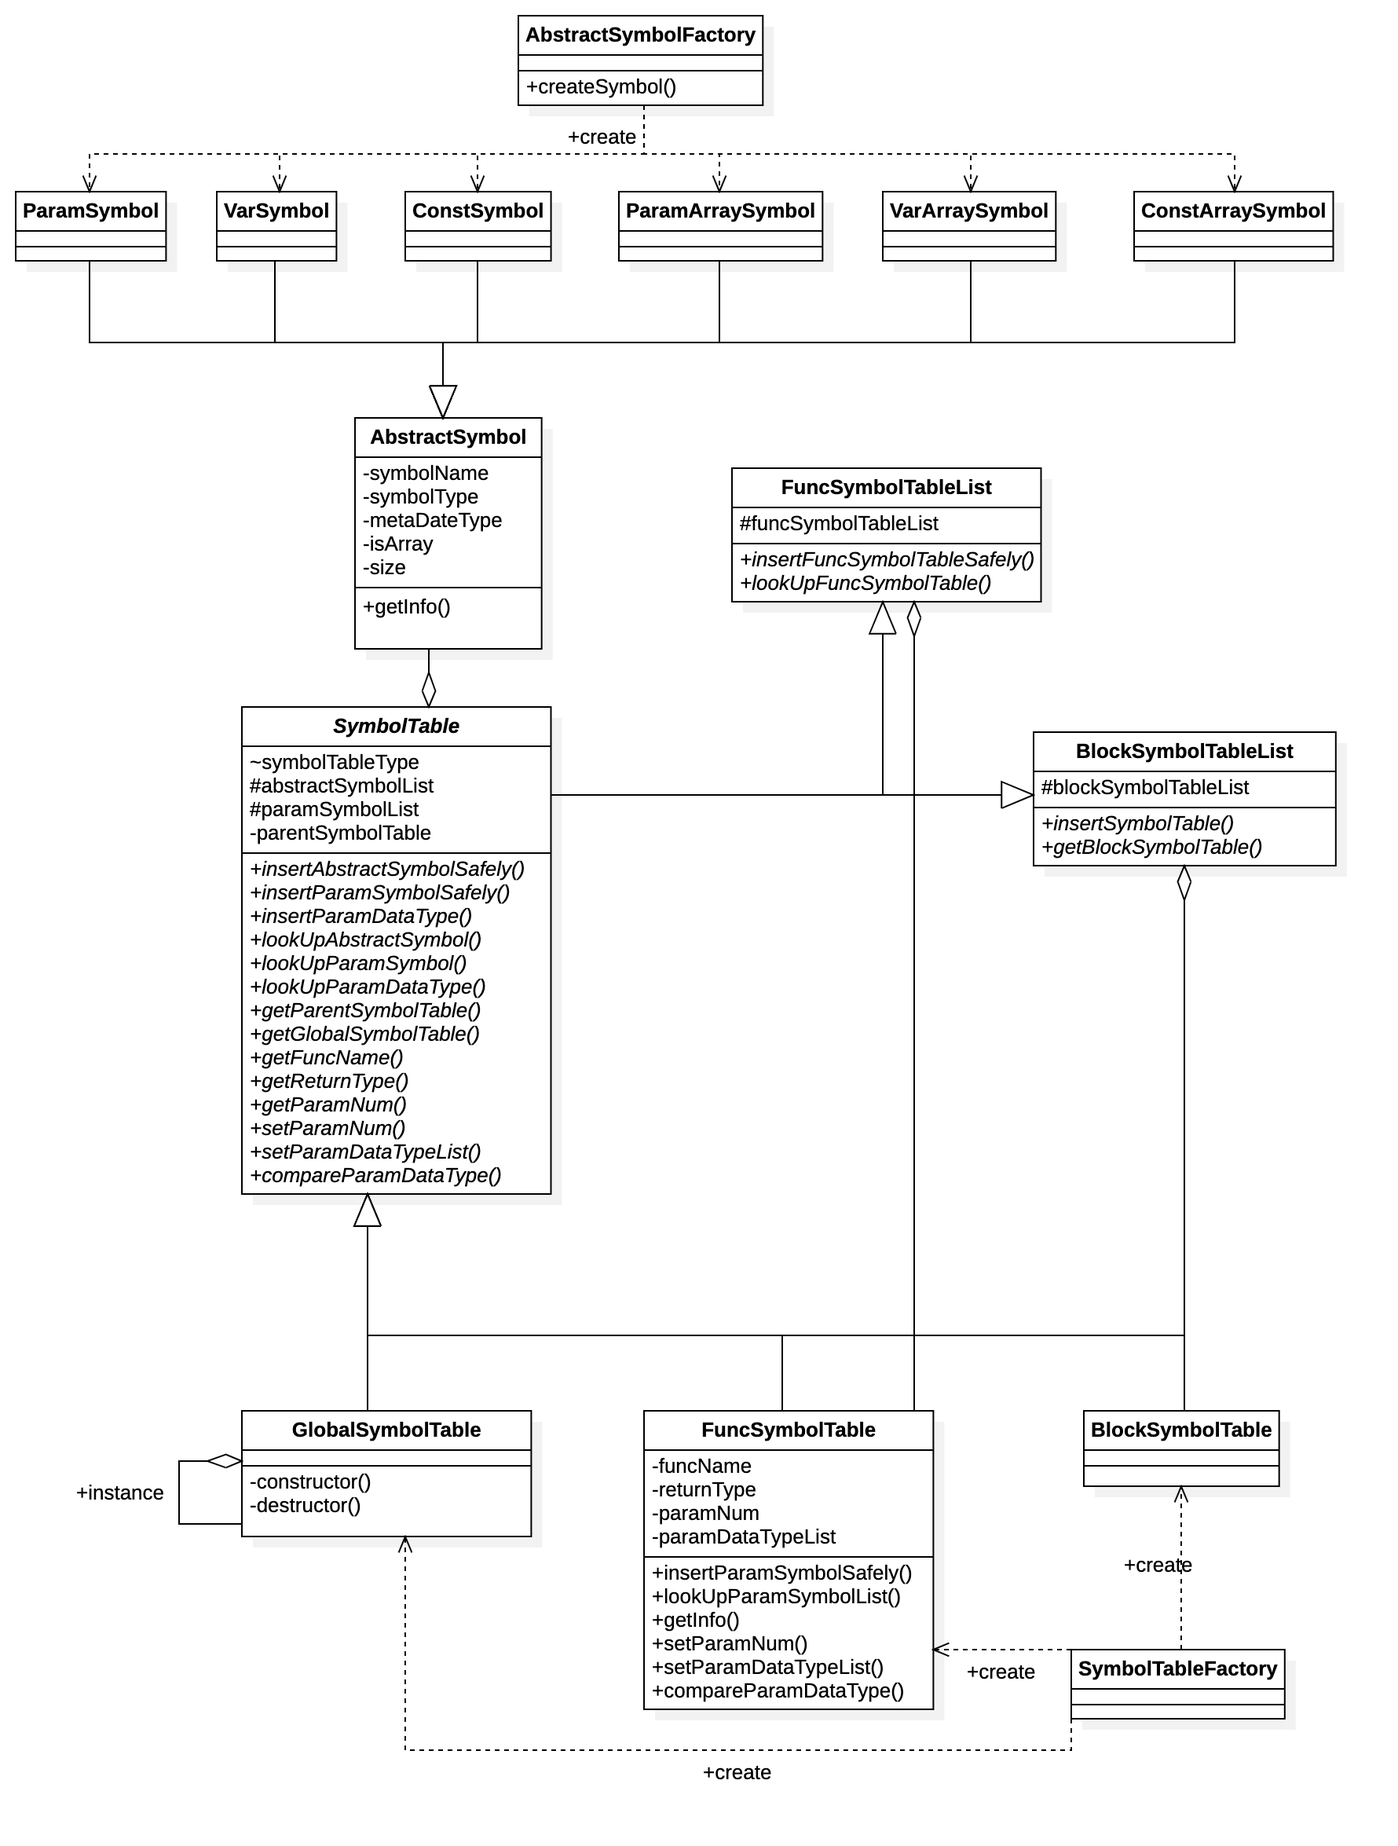
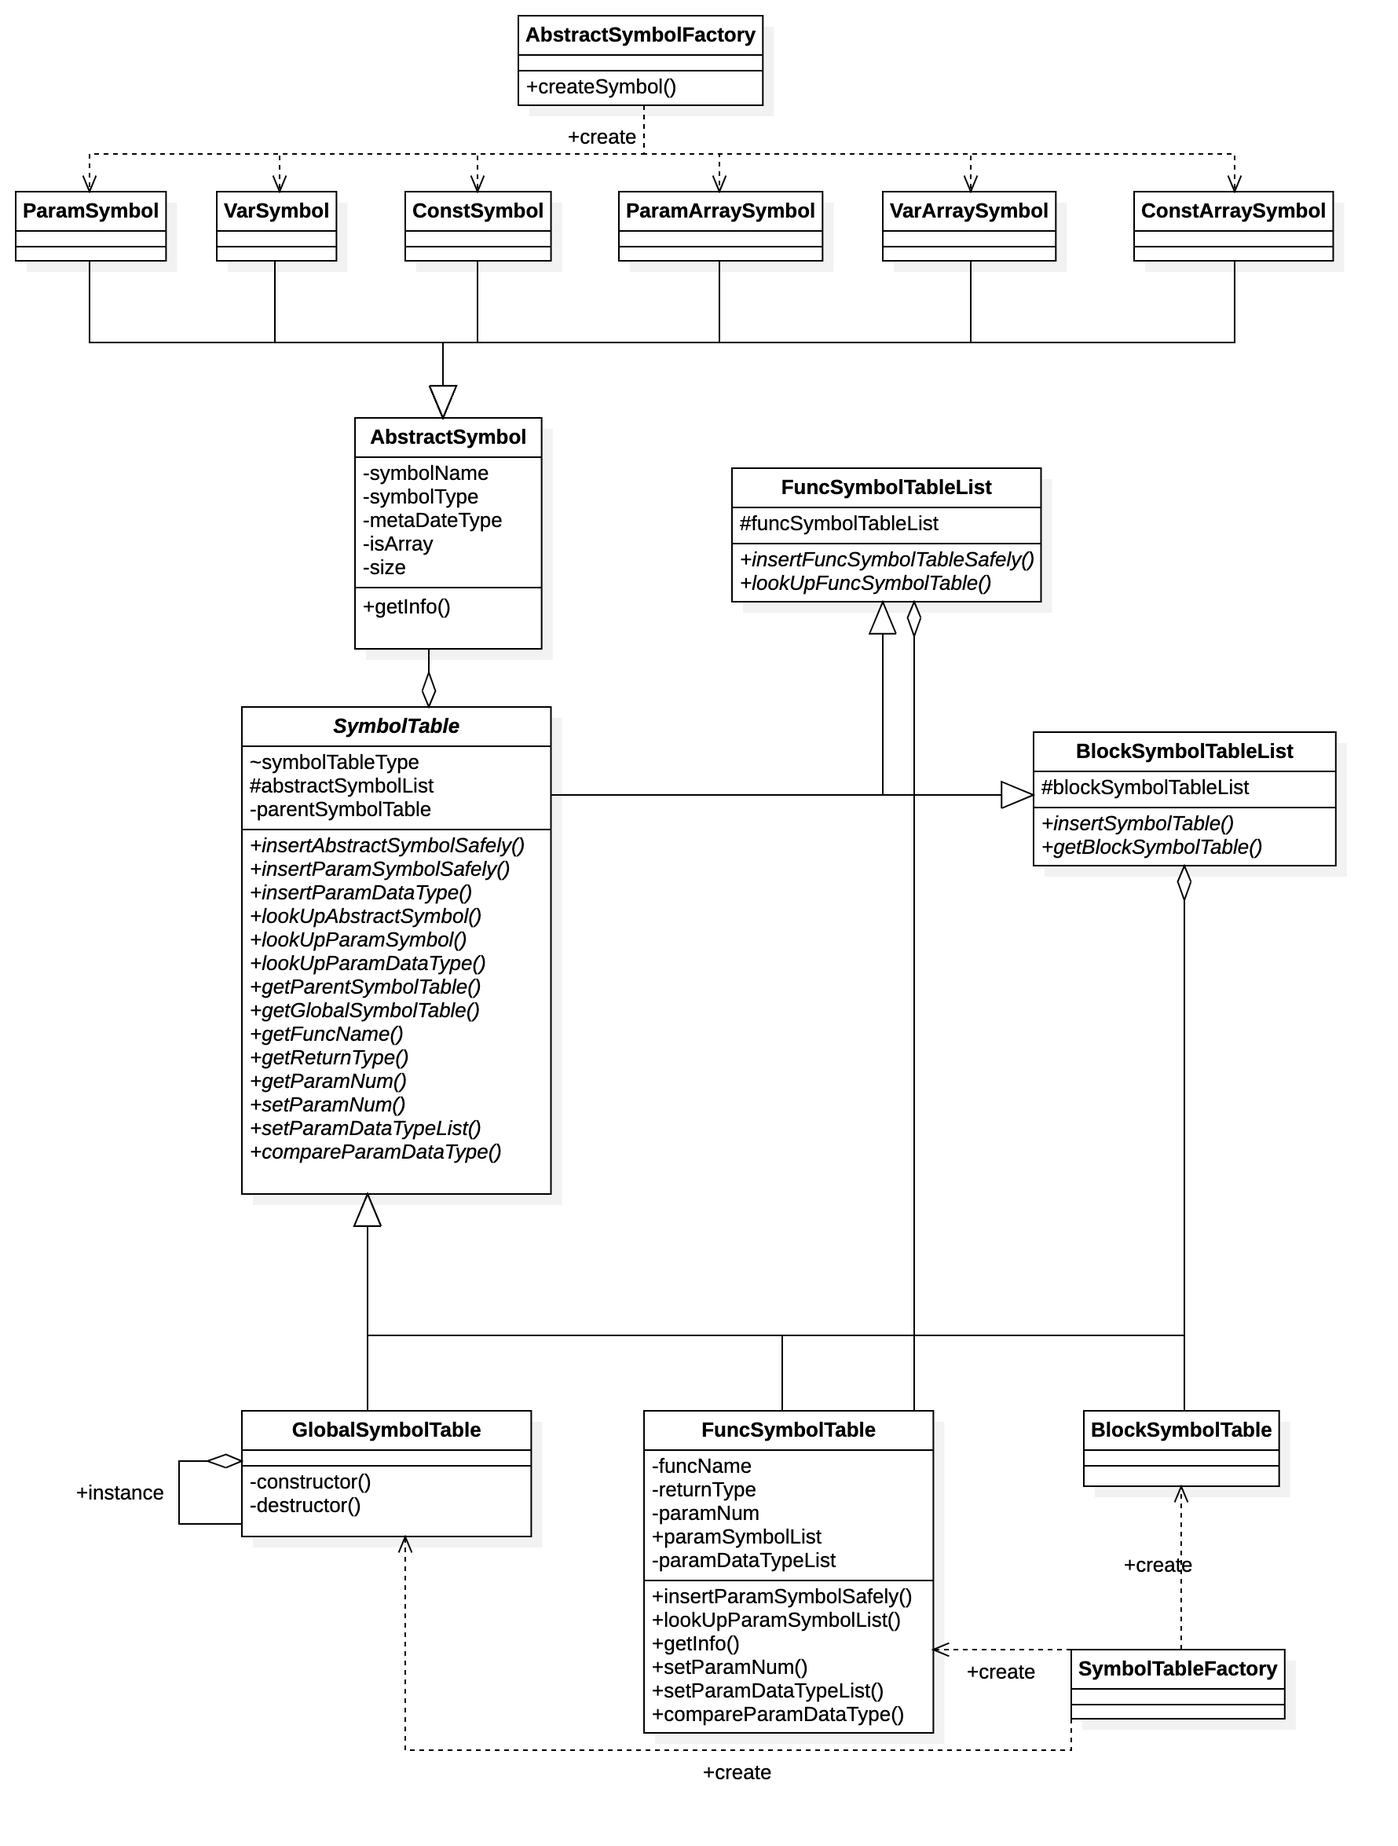
2 function override missing

Changed region(s): [[0.1854, 0.4349, 0.3708, 0.6523], [0.4635, 0.8077, 0.6489, 0.9319]]

diff --git a/src/symbolTable.cpp b/src/symbolTable.cpp
@@ -169,13 +169,13 @@ BlockSymbolTableList::~BlockSymbolTableList() {}
 
 SymbolTable *BlockSymbolTableList::insertBlockSymbolTable() {
     SymbolTable *insertSymbolTable = new BlockSymbolTable();
-    blockSymbolTableList.push_back(insertSymbolTable);
+    blockSymbolTableList.emplace_back(insertSymbolTable);
     return insertSymbolTable;
 }
 
 SymbolTable *BlockSymbolTableList::insertBlockSymbolTable(SymbolTable *inParentSymbolTable) {
     SymbolTable *insertSymbolTable = new BlockSymbolTable(inParentSymbolTable);
-    blockSymbolTableList.push_back(insertSymbolTable);
+    blockSymbolTableList.emplace_back(insertSymbolTable);
     return insertSymbolTable;
 }
 
@@ -226,10 +226,19 @@ AbstractSymbol *SymbolTable::lookUpAbstractSymbol(string inSymbolName) const {
     if (searchSymbol != abstractSymbolList.end()) {
         return searchSymbol->second;
     }
+    return nullptr;
+}
+
+
+AbstractSymbol *SymbolTable::lookUpAbstractSymbolGlobal(string inSymbolName) const {
+    auto searchSymbol = abstractSymbolList.find(inSymbolName);
+    if (searchSymbol != abstractSymbolList.end()) {
+        return searchSymbol->second;
+    }
     if (symbolTableType == TableType::FUNC) {
-        searchSymbol = paramSymbolList.find(inSymbolName);
-        if (searchSymbol != paramSymbolList.end()) {
-            return searchSymbol->second;
+        AbstractSymbol *paramSymbolRes = lookUpParamSymbol(inSymbolName);
+        if (paramSymbolRes) {
+            return paramSymbolRes;
         }
         return parentSymbolTable->lookUpAbstractSymbol(inSymbolName);
     }
@@ -297,8 +306,28 @@ AbstractSymbol *FuncSymbolTable::insertParamSymbolSafely(string inSymbolName, Sy
 }
 
 bool FuncSymbolTable::insertParamType(SymbolType inSymbolType, MetaDataType inMetaDataType, bool inIsArray, size_t inSize) {
-    paramDataTypeList.push_back(tuple<SymbolType, MetaDataType, bool, size_t>(inSymbolType, inMetaDataType, inIsArray, inSize));
+    paramDataTypeList.emplace_back(inSymbolType, inMetaDataType, inIsArray, inSize);
     return true;
+}
+
+AbstractSymbol *FuncSymbolTable::lookUpParamSymbol(string inSymbolNmae) const {
+    auto it = paramSymbolList.find(inSymbolNmae);
+    if (it != paramSymbolList.end()) {
+        return it->second;
+    }
+    else {
+        return nullptr;
+    }
+}
+
+tuple <SymbolType, MetaDataType, bool, size_t> FuncSymbolTable::lookUpParamDataType(string inSymbolName) const {
+    AbstractSymbol *searchSymbol = lookUpParamSymbol(inSymbolName);
+    if (searchSymbol) {
+        return tuple <SymbolType, MetaDataType, bool, size_t>(searchSymbol->getSymbolType(), searchSymbol->getMetaDataType(), searchSymbol->getIsArray(), searchSymbol->getSize());
+    }
+    else {
+        return tuple <SymbolType, MetaDataType, bool, size_t> ();
+    }
 }
 
 string FuncSymbolTable::getFuncName() const {
@@ -329,8 +358,8 @@ int FuncSymbolTable::setParamNum() {
 }
 
 bool FuncSymbolTable::setParamDataTypeList() {
-    for (auto i = SymbolTable::paramSymbolList.begin(); i != SymbolTable::paramSymbolList.end(); ++i) {
-        paramDataTypeList.push_back(tuple<SymbolType, MetaDataType, bool, size_t>(i->second->getSymbolType(), i->second->getMetaDataType(), i->second->getIsArray(), i->second->getSize()));
+    for (auto i = paramSymbolList.begin(); i != paramSymbolList.end(); ++i) {
+        paramDataTypeList.emplace_back(i->second->getSymbolType(), i->second->getMetaDataType(), i->second->getIsArray(), i->second->getSize());
     }
     return true;
 }

diff --git a/src/symbolTable.h b/src/symbolTable.h
@@ -173,7 +173,6 @@ private:
 
 protected:
     unordered_map<string, AbstractSymbol *> abstractSymbolList;
-    unordered_map<string, AbstractSymbol *> paramSymbolList;
 
 public:
     SymbolTable();  // note: should promiss GlobalSymbolTable construct for once
@@ -187,6 +186,7 @@ public:
     virtual bool insertParamType(SymbolType inSymbolType, MetaDataType inMetaDataType, bool inIsArray, size_t inSize) { return false; };
 
     virtual AbstractSymbol *lookUpAbstractSymbol(string inSymbolName) const;
+    virtual AbstractSymbol *lookUpAbstractSymbolGlobal(string inSymbolName) const;
     virtual AbstractSymbol *lookUpParamSymbol(string inSymbolNmae) const { return nullptr; };
     virtual tuple <SymbolType, MetaDataType, bool, size_t> lookUpParamDataType(string inSymbolName) const { return tuple <SymbolType, MetaDataType, bool, size_t>(SymbolType::CONST, MetaDataType::VOID, false, 0); };
 
@@ -226,6 +226,7 @@ private:
     string funcName;
     MetaDataType returnType;
     int paramNum;
+    unordered_map<string, AbstractSymbol *> paramSymbolList;
     vector<tuple <SymbolType, MetaDataType, bool, size_t> > paramDataTypeList;
 
 protected:
@@ -237,6 +238,9 @@ public:
     ~FuncSymbolTable();
     AbstractSymbol *insertParamSymbolSafely(string inSymbolName, SymbolType inSymbolType, MetaDataType inMetaDataType, bool inIsArray, size_t inSize) override;
     bool insertParamType(SymbolType inSymbolType, MetaDataType inMetaDataType, bool inIsArray, size_t inSize) override;
+
+    AbstractSymbol *lookUpParamSymbol(string inSymbolNmae) const override;
+    tuple <SymbolType, MetaDataType, bool, size_t> lookUpParamDataType(string inSymbolName) const override;
 
     string getFuncName() const override;
     MetaDataType getReturnType() const override;

diff --git a/reports/PR002-CACT-11.md b/reports/PR002-CACT-11.md
@@ -101,13 +101,13 @@
 
 ##### 函数接口
 
-|类|函数名|参数|返回类型|说明|
+|函数名|类|参数|返回类型|说明|
 |:-:|:-:|:-:|:-:|:-:|
-|`AbstractSymbol`|`getSymbolName`|`void`|`string`|返回符号名称|
-|`AbstractSymbol`|`getSymbolType`|`void`|`SymbolType`|返回符号名称|
-|`AbstractSymbol`|`getMetaDataType`|`void`|`MetaDataType`|返回符号名称|
-|`AbstractSymbol`|`getIsArray`|`void`|`bool`|返回符号名称|
-|`AbstractSymbol`|`getSize`|`void`|`size_t`|返回符号名称|
+|`getSymbolName`|`AbstractSymbol`|`void`|`string`|返回符号名称|
+|`getSymbolType`|`AbstractSymbol`|`void`|`SymbolType`|返回符号名称|
+|`getMetaDataType`|`AbstractSymbol`|`void`|`MetaDataType`|返回符号名称|
+|`getIsArray`|`AbstractSymbol`|`void`|`bool`|返回符号名称|
+|`getSize`|`AbstractSymbol`|`void`|`size_t`|返回符号名称|
 |`ParamSymbol`|`ParamSymbol`|`string, SymbolType, MetaDataType, bool, size_t`|`void`|构造函数，直接设置符号信息|
 |`VarSymbol`|`VarSymbol`|同上|`void`|构造函数|
 |`ConstSymbol`|`ConstSymbol`|同上|`void`|构造函数|
@@ -115,6 +115,7 @@
 |`VarArraySymbol`|`VarArraySymbol`|同上|`void`|构造函数|
 |`ConstArraySymbol`|`ConstArraySymbol`|同上|`void`|构造函数|
 |`AbstractSymbol`|`AbstractSymbol`|同上|`void`|构造函数|
+|`createSymbol`|`SymbolFactory`|同上|`void`|工厂模式，推荐使用|
 
 用基类表述的函数在子类中都可以直接使用，面向父类时采用最下定义。
 
@@ -122,13 +123,50 @@
 
 ##### 函数接口
 
-|类|函数名|参数|参数类型|返回类型|说明|
+|函数名|类|参数|参数类型|返回类型|说明|
 |:-:|:-:|:-:|:-:|:-:|:-:|
-|`FuncSymbolTableList`|`insertFuncSymbolTableSafely`|`inFuncName, inReturnType`|`string, MetaDataType`|`SymbolTable *`|根据函数名和返回值新建一个函数符号表加入列表（查重），若成功返回加入的函数符号表指针|
-|`FuncSymbolTableList`|`insertFuncSymbolTableSafely`|`inFuncName, inReturnType, inParentSymbolTable`|`string, MetaDataType, SymbolTable *`|`SymbolTable *`|根据函数名和返回值新建一个函数符号表加入列表（查重），若成功返回加入的函数符号表指针|
-|`FuncSymbolTableList`|`lookUpFuncSymbolTable`|`inFuncName`|`string`|`SymbolTable *`|根据函数名和返回值新建一个函数符号表加入列表（查重），若成功返回加入的函数符号表指针|
-|`BlockSymbolTableList`|`insertBlockSymbolTable`|`inParentSymbolTable`|`SymbolTable *`|`SymbolTable *`|新建一个块结构符号表并加入列表，填入块符号表的父符号表，若成功返回新加入的符号表指针|
-|`BlockSymbolTableList`|`getBlockSymbolTable`|`index`|`int`|`SymbolTable *`|根据下标返回块符号表指针，若输入不合法则报错|
+|`insertFuncSymbolTableSafely`|`FuncSymbolTableList`|`inFuncName, inReturnType`|`string, MetaDataType`|`SymbolTable *`|根据函数名和返回值新建一个函数符号表加入列表（查重），若成功返回加入的函数符号表指针|
+|`insertFuncSymbolTableSafely`|`FuncSymbolTableList`|`inFuncName, inReturnType, inParentSymbolTable`|`string, MetaDataType, SymbolTable *`|`SymbolTable *`|根据函数名和返回值新建一个函数符号表加入列表（查重），若成功返回加入的函数符号表指针|
+|`lookUpFuncSymbolTable`|`FuncSymbolTableList`|`inFuncName`|`string`|`SymbolTable *`|根据函数名和返回值新建一个函数符号表加入列表（查重），若成功返回加入的函数符号表指针|
+|`insertBlockSymbolTable`|`BlockSymbolTableList`|`inParentSymbolTable`|`SymbolTable *`|`SymbolTable *`|新建一个块结构符号表并加入列表，填入块符号表的父符号表，若成功返回新加入的符号表指针|
+|`getBlockSymbolTable`|`BlockSymbolTableList`|`index`|`int`|`SymbolTable *`|根据下标返回块符号表指针，若输入不合法则报错|
+
+##### 实现细节
+
+**Insert操作**
+
+根据STL接口，`unordered_map`使用`emplace`插入元素而不采用`insert`，避免了临时变量的产生，有效利用了C++ 11的新特性：**`变参模版`**和**`完美转发`**，参数类型更加灵活，且不必进行显示类型变换。
+
+首先进行查重的操作运用C++模版的特性，方便不同形式的列表实现进行查重。
+
+```cpp
+template <class T>
+bool findDuplicateName(T list, string className, string name) {
+    auto searchSymbol = list.find(name);
+    if (searchSymbol != list.end()) {
+        ERROR_INSERT_DUPLICATED(className, name);
+        return true;
+    }
+    return false;
+}
+```
+
+若未发现重名，则进行插入操作，事先利用符号工厂创建所需类型的符号：
+
+```cpp
+SymbolTable *FuncSymbolTableList::insertFuncSymbolTableSafely(string inFuncName, MetaDataType inReturnType, SymbolTable *inParentSymbolTable) {
+    if (findDuplicateName(funcSymbolTableList, "FuncSymbolTableList", inFuncName)){
+        return nullptr;
+    }
+    SymbolTable *insertSymbolTable = new FuncSymbolTable(inFuncName, inReturnType, inParentSymbolTable);
+    funcSymbolTableList.emplace(inFuncName, insertSymbolTable);
+    return insertSymbolTable;
+}
+```
+
+**LookUp操作**
+
+对于unordered_map，查找操作时间复杂度极低，因为底层使用hash table实现，先求解hash值之后直接索引到目标即可。同样可以调用STL模版函数`find`，返回类型是迭代器，若指向列表尾部（在外部）则说明查找失败，否则返回对应位置的AbstractSymbol指针。
 
 #### 符号表
 
@@ -136,27 +174,39 @@
 
 使用基类`SymbolTable`定义的函数在子类中都可以直接调用，使用子类定义的函数为该子类特有，其余函数不允许调用。
 
-|类|函数名|参数|参数类型|返回类型|说明|
+|函数名|类|参数|参数类型|返回类型|说明|
 |:-:|:-:|:-:|:-:|:-:|:-:|
-|`SymbolTable`|`insertAbstractSymbolSafely`|`inSymbolName, inSymbolType, inMetaDataType,inIsArray, inSize`|`string, SymbolType, MetaDataType, bool, size_t`|`AbstractSymbol *`|利用所给参数带查重地插入指代符号列表，若成功返回指代符号指针|
-|`SymbolTable`|`lookUpAbstractSymbol`|`inSymbolName`|`string`|`AbstractSymbol *`|利用指代符号名称查找之，**注意会逐级向上查找，找到存在对应符号的最下嵌套作用域**|
-|`SymbolTable`|`getParentSymbolTable`|`void`|`void`|`SymbolTable *`|找到本符号表的父符号表|
-|`SymbolTable`|`getGlobalSymbolTable`|`void`|`SymbolTable *`|本意只是为了全局符号表单例模式提供，但理论而言确实可以被外部和子类访问|
-|`SymbolTable`|`setParameterSymbolTable`|`parentSymbolTable`|`SymbolTable *`|`bool`|为了弥补，若此前构造函数未能提供父符号表，则可调用此函数定义|
-|`SymbolTable`|`compareAbstractSymbolDataType`|`inSymbolName, inSymbolType, inMetaDataType, inIsArray, inSize`|`string, SymbolType, MetaDataType, bool, size_t`|`bool`|比较变量名的相关属性和传入属性是否相同，确定该变量是否类型和要求完全一致|
+|`insertAbstractSymbolSafely`|`SymbolTable`|`inSymbolName, inSymbolType, inMetaDataType,inIsArray, inSize`|`string, SymbolType, MetaDataType, bool, size_t`|`AbstractSymbol *`|利用所给参数带查重地插入指代符号列表，若成功返回指代符号指针|
+|`lookUpAbstractSymbol`|`SymbolTable`|`inSymbolName`|`string`|`AbstractSymbol *`|利用指代符号名称查找之，只在当前作用域内查找|
+|`lookUpAbstractSymbolGlobal`|`SymbolTable`|`inSymbolName`|`string`|`AbstractSymbol *`|利用指代符号名称查找之，**注意会逐级向上查找，找到存在对应符号的最下嵌套作用域**|
+|`getParentSymbolTable`|`SymbolTable`|`void`|`void`|`SymbolTable *`|找到本符号表的父符号表|
+|`getGlobalSymbolTable`|`SymbolTable`|`void`|`SymbolTable *`|本意只是为了全局符号表单例模式提供，但理论而言确实可以被外部和子类访问|
+|`setParameterSymbolTable`|`SymbolTable`|`parentSymbolTable`|`SymbolTable *`|`bool`|为了弥补，若此前构造函数未能提供父符号表，则可调用此函数定义|
+|`compareAbstractSymbolDataType`|`SymbolTable`|`inSymbolName, inSymbolType, inMetaDataType, inIsArray, inSize`|`string, SymbolType, MetaDataType, bool, size_t`|`bool`|比较变量名的相关属性和传入属性是否相同，确定该变量是否类型和要求完全一致|
 |`FuncSymbolTable`|`FuncSymbolTable`|`inFuncName, inReturnType, inParentSymbolTable`|`string, MetaDataType, SymbolType *`|`void`|构造函数|
-|`FuncSymbolTable`|`insertParamSymbolSafely`|`inSymbolName, inSymbolType, inMetaDataType, inIsArray, inSize`|`string, SymbolType, MetaDataType, bool, size_t`|`AbstractSymbol *`|根据所给参数信息新建参数指代符号，插入参数符号表，若成功，返回参数符号指针|
-|`FuncSymbolTable`|`insertParamType`|`inSymbolType, inMetaDataType, inIsArray, inSize`|`SymbolType, MetaDataType, bool, size_t`|`bool`|根据所给参数信息新建参数指代符号，加入参数类型列表，成功时返回true|
-|`FuncSymbolTable`|`getFuncName`|`void`|`void`|`string`|返回函数名|
-|`FuncSymbolTable`|`getReturnType`|`void`|`void`|`MetaDataType`|返回函数返回类型|
-|`FuncSymbolTable`|`getParamNum`|`void`|`void`|`int`|返回函数参数个数，注意需要先调用计算函数|
-|`FuncSymbolTable`|`setFuncName`|`inFuncName`|`string`|`bool`|设置函数名，弥补构造函数缺漏|
-|`FuncSymbolTable`|`setReturnType`|`inReturnType`|`MetaDataType`|`bool`|设置函数返回类型|
-|`FuncSymbolTable`|`setParamNum`|`void`|`void`|`int`|设置参数个数，调用即可，内部自动计算|
-|`FuncSymbolTable`|`setParamDataTypeList`|`void`|`void`|`void`|bool`|设置参数类型列表，调用即可，内部自动计算|
-|`SymbolTableFactory`|`createSymbolTable`|`inTaleType`|`TableType`|`SymbolTable *`|工厂模式构造符号表类，暂不建议使用|
+|`insertParamSymbolSafely`|`FuncSymbolTable`|`inSymbolName, inSymbolType, inMetaDataType, inIsArray, inSize`|`string, SymbolType, MetaDataType, bool, size_t`|`AbstractSymbol *`|根据所给参数信息新建参数指代符号，插入参数符号表，若成功，返回参数符号指针|
+|`insertParamType`|`FuncSymbolTable`|`inSymbolType, inMetaDataType, inIsArray, inSize`|`SymbolType, MetaDataType, bool, size_t`|`bool`|根据所给参数信息新建参数指代符号，加入参数类型列表，成功时返回true|
+|`lookUpParamSymbol`|`FuncSymbolTable`|`inSymbolName`|`string`|`AbstractSymbol *`|在参数符号列表中查找指定名称符号，返回符号指针|
+|`lookUpParamDataType`|`FuncSymbolTable`|`inSymbolName`|`string`|` tuple <SymbolType, MetaDataType, bool, size_t> `|在参数符号列表查找制定符号名称，返回符号相关属性|
+|`getFuncName`|`FuncSymbolTable`|`void`|`void`|`string`|返回函数名|
+|`getReturnType`|`FuncSymbolTable`|`void`|`void`|`MetaDataType`|返回函数返回类型|
+|`getParamNum`|`FuncSymbolTable`|`void`|`void`|`int`|返回函数参数个数，注意需要先调用计算函数|
+|`setFuncName`|`FuncSymbolTable`|`inFuncName`|`string`|`bool`|设置函数名，弥补构造函数缺漏|
+|`setReturnType`|`FuncSymbolTable`|`inReturnType`|`MetaDataType`|`bool`|设置函数返回类型|
+|`setParamNum`|`FuncSymbolTable`|`void`|`void`|`int`|设置参数个数，调用即可，内部自动计算|
+|`setParamDataTypeList`|`FuncSymbolTable`|`void`|`void`|`void`|bool`|设置参数类型列表，调用即可，内部自动计算|
+|`compareParamSymbolDataType`|`FuncSymbolTable`|`index, inSymbolType, inMetaDataType, inIsArray, inSize`|`int, SymbolType, MetaDataType, bool, size_t`|`bool`|直接比较某位置的参数类型|
+|`createSymbolTable`|`SymbolTableFactory`|`inTaleType`|`TableType`|`SymbolTable *`|工厂模式构造符号表类，暂不建议使用|
 
-`GlobalSymbolTable`可以使用`SymbolTable`和`FuncSymbolTableList`中所有接口，`BlockSymbolTable`可以使用`SymbolTable`和`BlockSymbolTableList`中所有接口，`FuncSymbolTableList`可采用全部接口。
+注意`GlobalSymbolTable`只能使用`getGlobalSymbolTable`的方式获取，可以使用`SymbolTable`和`FuncSymbolTableList`中所有接口，`BlockSymbolTable`可以使用`SymbolTable`和`BlockSymbolTableList`中所有接口，`FuncSymbolTableList`可采用全部接口。
+
+##### 实现细节
+
+注意这里提供了向上反递归查找指代符号的接口`lookUpAbstractSymbolGlobal`，查找顺序是：
+
+1. 当前作用域内`AbstractSymbolList`
+2. 若当前为函数符号表，查找`ParamSymbolList`
+3. 向上(`paramSymbolTable`)查找
 
 ### 其它
 
